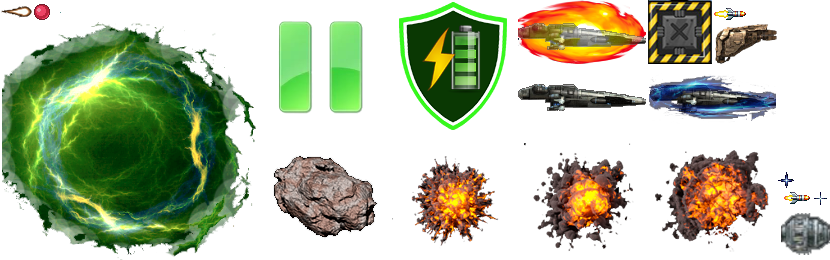
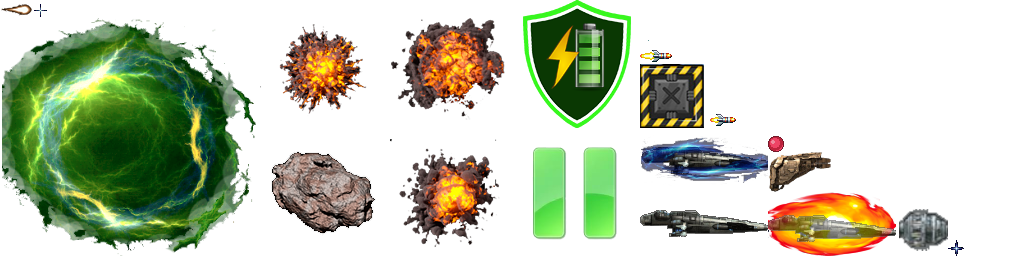
fix

diff --git a/core/src/ru/chertenok/games/rtype/screens/game/GameScreenRender.java b/core/src/ru/chertenok/games/rtype/screens/game/GameScreenRender.java
@@ -8,13 +8,16 @@ import com.badlogic.gdx.graphics.g2d.GlyphLayout;
 import com.badlogic.gdx.graphics.g2d.SpriteBatch;
 import com.badlogic.gdx.graphics.g2d.TextureAtlas;
 import com.badlogic.gdx.utils.Disposable;
+import com.badlogic.gdx.utils.Logger;
 import com.badlogic.gdx.utils.viewport.FitViewport;
 import com.badlogic.gdx.utils.viewport.Viewport;
-import ru.chertenok.games.rtype.Global;
+import ru.chertenok.games.rtype.assests_maneger.Global;
 import ru.chertenok.games.rtype.config.GameConfig;
 import ru.chertenok.games.rtype.config.GameState;
 
 public class GameScreenRender implements Disposable {
+
+    private static Logger log = new Logger(GameScreenRender.class.getSimpleName(), Logger.DEBUG);
 
     public Viewport viewport;
     public TextureAtlas.AtlasRegion imgPause;
@@ -47,17 +50,20 @@ public class GameScreenRender implements Disposable {
     }
 
     private void initImages() {
-        imgPause = Global.assetManager.get(Global.currentLevel).findRegion(GameConfig.TEXTURE_REGION_BUTTON_PAUSE);
-        imgShield = Global.assetManager.get(Global.currentLevel).findRegion(GameConfig.TEXTURE_REGION_BUTTON_SHIELD);
-        imgRect = Global.assetManager.get(Global.currentLevel).findRegion(GameConfig.TEXTURE_REGION_BUTTON_RECT);
+        TextureAtlas ta = Global.assetManager.get(Global.currentLevel);
+        imgPause = ta.findRegion(GameConfig.TEXTURE_REGION_BUTTON_PAUSE);
+        imgShield = ta.findRegion(GameConfig.TEXTURE_REGION_BUTTON_SHIELD);
+        imgRect = ta.findRegion(GameConfig.TEXTURE_REGION_BUTTON_RECT);
     }
 
 
     public void render(float delta) {
+        batch.totalRenderCalls = 0;
         Gdx.gl.glClearColor(0, 0, 0, 1);
         Gdx.gl.glClear(GL20.GL_COLOR_BUFFER_BIT);
         batch.setProjectionMatrix(camera.projection);
         batch.setTransformMatrix(camera.view);
+
         batch.begin();
         batch.setColor(1, 1, 1, 1);
         controller.fonStars.render(batch);
@@ -68,10 +74,11 @@ public class GameScreenRender implements Disposable {
         controller.asteroids.render(batch);
         controller.enemies.render(batch);
         controller.explosions.render(batch);
-        controller.messages.render(batch);
         renderDebugCollision();
         renderHUD();
+        controller.messages.render(batch);
 
+        log.debug("" + batch.totalRenderCalls);
         batch.end();
     }
 
@@ -105,12 +112,37 @@ public class GameScreenRender implements Disposable {
         // полоса здоровья
 
         if (controller.isBossMode()) {
+            renderLiveLine(controller.bossControl.getBoss().live, controller.bossControl.getMAX_ENERGY(), 55, true);
+        }
+
+        if (controller.shipControl.isRecharge()) {
+            batch.draw(imgShield, viewport.getWorldWidth() - imgShield.getRegionWidth() * 3, 0);
+        } else {
+            batch.setColor(Color.GRAY.r, Color.GRAY.g, Color.GRAY.b, 0.6f);
+            batch.draw(imgShield, viewport.getWorldWidth() - imgShield.getRegionWidth() * 3, 0);
+            batch.setColor(1, 1, 1, 1);
+        }
+
+        if (GameConfig.gameState == GameState.Pause) {
+            //   GlyphLayout layout = new GlyphLayout(Global.fontBig, "PAUSE", Color.GOLD, 100, 1, false);
+            //   GlyphLayout layout1 = new GlyphLayout(Global.fontBig, "PAUSE", Color.GRAY, 100, 1, false);
+            //   Global.fontBig.draw(batch, layout1, viewport.getWorldWidth() / 2 - layout.width / 2 - 1, viewport.getWorldHeight() / 2 + layout.height / 2 - 1);
+            //    Global.fontBig.draw(batch, layout, viewport.getWorldWidth() / 2 - layout.width / 2, viewport.getWorldHeight() / 2 + layout.height / 2);
+
+            batch.draw(imgPause, viewport.getWorldWidth() - imgPause.getRegionWidth() - 20, 20);
+        } else {
+            batch.setColor(Color.GRAY.r, Color.GRAY.g, Color.GRAY.b, 0.6f);
+            batch.draw(imgPause, viewport.getWorldWidth() - imgPause.getRegionWidth() - 20, 20);
+            batch.setColor(1, 1, 1, 1);
+        }
+
+        if (controller.isBossMode()) {
 
             Global.font.setColor(Color.YELLOW);
             Global.font.draw(batch, "Boss Energy: " + controller.bossControl.getBoss().live, 20 - 1, viewport.getWorldHeight() - 75 - 1);
             Global.font.setColor(Color.RED);
             Global.font.draw(batch, "Boss Energy: " + controller.bossControl.getBoss().live, 20, viewport.getWorldHeight() - 75);
-            renderLiveLine(controller.bossControl.getBoss().live, controller.bossControl.getMAX_ENERGY(), 55, true);
+
         }
 
 
@@ -137,26 +169,6 @@ public class GameScreenRender implements Disposable {
         Global.font.draw(batch, "Time: " + String.format(" %02d:%02d ", (int) controller.level.getDtLevelCounter() / 60, (int) controller.level.getDtLevelCounter() % 60), viewport.getWorldWidth() - 900, viewport.getWorldHeight() - 10);
 
 
-        if (controller.shipControl.isRecharge()) {
-            batch.draw(imgShield, viewport.getWorldWidth() - imgShield.getRegionWidth() * 3, 0);
-        } else {
-            batch.setColor(Color.GRAY.r, Color.GRAY.g, Color.GRAY.b, 0.6f);
-            batch.draw(imgShield, viewport.getWorldWidth() - imgShield.getRegionWidth() * 3, 0);
-            batch.setColor(1, 1, 1, 1);
-        }
-
-        if (GameConfig.gameState == GameState.Pause) {
-            //   GlyphLayout layout = new GlyphLayout(Global.fontBig, "PAUSE", Color.GOLD, 100, 1, false);
-            //   GlyphLayout layout1 = new GlyphLayout(Global.fontBig, "PAUSE", Color.GRAY, 100, 1, false);
-            //   Global.fontBig.draw(batch, layout1, viewport.getWorldWidth() / 2 - layout.width / 2 - 1, viewport.getWorldHeight() / 2 + layout.height / 2 - 1);
-            //    Global.fontBig.draw(batch, layout, viewport.getWorldWidth() / 2 - layout.width / 2, viewport.getWorldHeight() / 2 + layout.height / 2);
-
-            batch.draw(imgPause, viewport.getWorldWidth() - imgPause.getRegionWidth() - 20, 20);
-        } else {
-            batch.setColor(Color.GRAY.r, Color.GRAY.g, Color.GRAY.b, 0.6f);
-            batch.draw(imgPause, viewport.getWorldWidth() - imgPause.getRegionWidth() - 20, 20);
-            batch.setColor(1, 1, 1, 1);
-        }
         if (GameConfig.gameState == GameState.End) {
             GlyphLayout layout = new GlyphLayout(Global.fontBig, "GAME OVER", Color.RED, 300, 1, false);
             GlyphLayout layout1 = new GlyphLayout(Global.fontBig, "GAME OVER", Color.WHITE, 300, 1, false);
@@ -190,7 +202,7 @@ public class GameScreenRender implements Disposable {
             if ((value / maxValue * 100) >= 75f) batch.setColor(0, 1, 0, 0.6f);
             else if ((value / maxValue * 100) <= 25f) batch.setColor(1, 0, 0, 0.6f);
             else batch.setColor(1, 1, 0, 0.6f);
-        } else Global.font.setColor(Color.GRAY);
+        } else batch.setColor(Color.GRAY);
 
         tempEnergy = (viewport.getWorldWidth() - 44) / 100 * (value / maxValue * 100);
         if (tempEnergy < 0) tempEnergy = 0;
@@ -207,8 +219,6 @@ public class GameScreenRender implements Disposable {
     @Override
     public void dispose() {
         batch.dispose();
-        Global.font.dispose();
-        Global.fontBig.dispose();
     }
 
 

diff --git a/core/src/ru/chertenok/games/rtype/assests_maneger/Global.java b/core/src/ru/chertenok/games/rtype/assests_maneger/Global.java
@@ -1,4 +1,4 @@
-package ru.chertenok.games.rtype;
+package ru.chertenok.games.rtype.assests_maneger;
 
 import com.badlogic.gdx.Gdx;
 import com.badlogic.gdx.assets.AssetDescriptor;
@@ -39,7 +39,8 @@ public class Global {
 
     public static void load(String packName) {
         locale = Locale.getDefault();
-        assetManager.getLogger().setLevel(Logger.DEBUG);
+        //assetManager.getLogger().setLevel(Logger.DEBUG);
+        assetManager.setLogger(log);
         currentLevel = new AssetDescriptor<TextureAtlas>(packName, TextureAtlas.class);
         assetManager.load(currentLevel);
         assetManager.load(GameConfig.FILE_MAIN_MUSIC_PATH, Music.class);
@@ -75,6 +76,8 @@ public class Global {
     public static void dispose() {
 
         assetManager.dispose();
+        font.dispose();
+        fontBig.dispose();
     }
 
 

diff --git a/core/src/ru/chertenok/games/rtype/screens/game/GameScreen.java b/core/src/ru/chertenok/games/rtype/screens/game/GameScreen.java
@@ -1,9 +1,11 @@
 package ru.chertenok.games.rtype.screens.game;
 
+import com.badlogic.gdx.Application;
+import com.badlogic.gdx.Gdx;
 import com.badlogic.gdx.InputProcessor;
 import com.badlogic.gdx.Screen;
 import com.badlogic.gdx.utils.Logger;
-import ru.chertenok.games.rtype.Global;
+import ru.chertenok.games.rtype.assests_maneger.Global;
 import ru.chertenok.games.rtype.config.GameConfig;
 
 public class GameScreen implements Screen, InputProcessor {
@@ -18,6 +20,7 @@ public class GameScreen implements Screen, InputProcessor {
         controller = new GameScreenController();
         renderer = new GameScreenRender(controller);
         GameConfig.renderer = renderer;
+        Gdx.app.setLogLevel(Application.LOG_ERROR);
     }
 
     @Override

diff --git a/desktop/src/ru/chertenok/games/rtype/desktop/AssestPacker.java b/desktop/src/ru/chertenok/games/rtype/desktop/AssestPacker.java
@@ -12,13 +12,17 @@ public class AssestPacker {
         TexturePacker.Settings settings = new TexturePacker.Settings();
         settings.debug = DRAW_DEBUG_OUTLINE;
 
-        settings.maxWidth = 2048;
-        settings.maxHeight = 2048;
+        settings.maxWidth = 1024;
+        settings.maxHeight = 1024;
+        settings.fast = false;
+        settings.paddingX = 0;
+        settings.paddingY = 0;
+        //settings.
 
         TexturePacker.process(settings,
                 RAW_ASSETS_PATH + "/images",
-                ASSETS_PATH + "/images",
-                "level"
+                ASSETS_PATH,
+                "level1"
         );
     }
 }

diff --git a/core/src/ru/chertenok/games/rtype/screens/game/GameScreenController.java b/core/src/ru/chertenok/games/rtype/screens/game/GameScreenController.java
@@ -8,7 +8,11 @@ import com.badlogic.gdx.math.Intersector;
 import com.badlogic.gdx.math.Rectangle;
 import com.badlogic.gdx.utils.Array;
 import com.badlogic.gdx.utils.Logger;
-import ru.chertenok.games.rtype.*;
+import ru.chertenok.games.rtype.Collisionable;
+import ru.chertenok.games.rtype.FonGround;
+import ru.chertenok.games.rtype.FonStars;
+import ru.chertenok.games.rtype.Messages;
+import ru.chertenok.games.rtype.assests_maneger.Global;
 import ru.chertenok.games.rtype.config.GameConfig;
 import ru.chertenok.games.rtype.config.GameState;
 import ru.chertenok.games.rtype.entity.BossControl;

diff --git a/core/src/ru/chertenok/games/rtype/config/GameConfig.java b/core/src/ru/chertenok/games/rtype/config/GameConfig.java
@@ -14,7 +14,7 @@ public class GameConfig {
 
     public static final String FILE_FONT_PATH = "fonts/alt.ttf";
     public static final String LEVEL1_FILE_PATH = "levels/level1.json";
-    public static final String LEVEL1_PACK_FILE_PATH = "levels/level1.pack";
+    public static final String LEVEL1_PACK_FILE_PATH = "levels/level1.atlas";
     public static final String LOCALIZATION_GAMEBUNDLE_PATH = "localization/GameBundle";
     public static final String LOCALIZATION_LEVEL1_PATH = "localization/level1";
     public static final String FILE_MAIN_MUSIC_PATH = "sound/through_space.mp3";

diff --git a/core/src/ru/chertenok/games/rtype/entity/BossControl.java b/core/src/ru/chertenok/games/rtype/entity/BossControl.java
@@ -5,8 +5,8 @@ import com.badlogic.gdx.graphics.Color;
 import com.badlogic.gdx.graphics.g2d.SpriteBatch;
 import com.badlogic.gdx.math.Vector2;
 import com.badlogic.gdx.utils.Logger;
-import ru.chertenok.games.rtype.Global;
 import ru.chertenok.games.rtype.Sprites;
+import ru.chertenok.games.rtype.assests_maneger.Global;
 import ru.chertenok.games.rtype.config.GameConfig;
 import ru.chertenok.games.rtype.screens.game.GameScreenController;
 import ru.chertenok.games.rtype.util.Util;

diff --git a/core/src/ru/chertenok/games/rtype/entity/collections/Enemies.java b/core/src/ru/chertenok/games/rtype/entity/collections/Enemies.java
@@ -3,7 +3,7 @@ package ru.chertenok.games.rtype.entity.collections;
 import com.badlogic.gdx.graphics.g2d.SpriteBatch;
 import com.badlogic.gdx.math.Vector2;
 import com.badlogic.gdx.utils.Logger;
-import ru.chertenok.games.rtype.Global;
+import ru.chertenok.games.rtype.assests_maneger.Global;
 import ru.chertenok.games.rtype.config.EnemyType;
 import ru.chertenok.games.rtype.config.GameConfig;
 import ru.chertenok.games.rtype.level.Level;

diff --git a/core/src/ru/chertenok/games/rtype/entity/collections/Bullets.java b/core/src/ru/chertenok/games/rtype/entity/collections/Bullets.java
@@ -4,7 +4,7 @@ import com.badlogic.gdx.audio.Sound;
 import com.badlogic.gdx.graphics.g2d.SpriteBatch;
 import com.badlogic.gdx.math.Circle;
 import com.badlogic.gdx.math.Rectangle;
-import ru.chertenok.games.rtype.Global;
+import ru.chertenok.games.rtype.assests_maneger.Global;
 import ru.chertenok.games.rtype.config.GameConfig;
 import ru.chertenok.games.rtype.config.ObjectOwner;
 import ru.chertenok.games.rtype.entity.Bullet;

diff --git a/core/src/ru/chertenok/games/rtype/entity/collections/Asteroids.java b/core/src/ru/chertenok/games/rtype/entity/collections/Asteroids.java
@@ -2,7 +2,7 @@ package ru.chertenok.games.rtype.entity.collections;
 
 import com.badlogic.gdx.graphics.g2d.SpriteBatch;
 import com.badlogic.gdx.utils.Logger;
-import ru.chertenok.games.rtype.Global;
+import ru.chertenok.games.rtype.assests_maneger.Global;
 import ru.chertenok.games.rtype.config.GameConfig;
 import ru.chertenok.games.rtype.level.Level;
 import ru.chertenok.games.rtype.level.LevelEvents;

diff --git a/core/src/ru/chertenok/games/rtype/entity/Explosion.java b/core/src/ru/chertenok/games/rtype/entity/Explosion.java
@@ -2,7 +2,7 @@ package ru.chertenok.games.rtype.entity;
 
 import com.badlogic.gdx.math.Vector2;
 import ru.chertenok.games.rtype.Collisionable;
-import ru.chertenok.games.rtype.Global;
+import ru.chertenok.games.rtype.assests_maneger.Global;
 import ru.chertenok.games.rtype.screens.game.GameScreenController;
 
 public class Explosion extends ru.chertenok.games.rtype.entity.GameInnerObject {

diff --git a/core/src/ru/chertenok/games/rtype/Messages.java b/core/src/ru/chertenok/games/rtype/Messages.java
@@ -3,6 +3,7 @@ package ru.chertenok.games.rtype;
 import com.badlogic.gdx.graphics.Color;
 import com.badlogic.gdx.graphics.g2d.SpriteBatch;
 import com.badlogic.gdx.utils.Logger;
+import ru.chertenok.games.rtype.assests_maneger.Global;
 import ru.chertenok.games.rtype.config.GameConfig;
 import ru.chertenok.games.rtype.level.Level;
 import ru.chertenok.games.rtype.level.LevelEvents;
